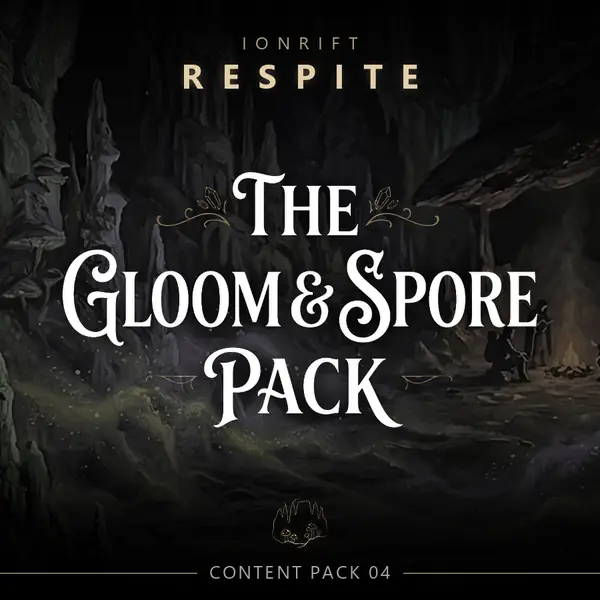
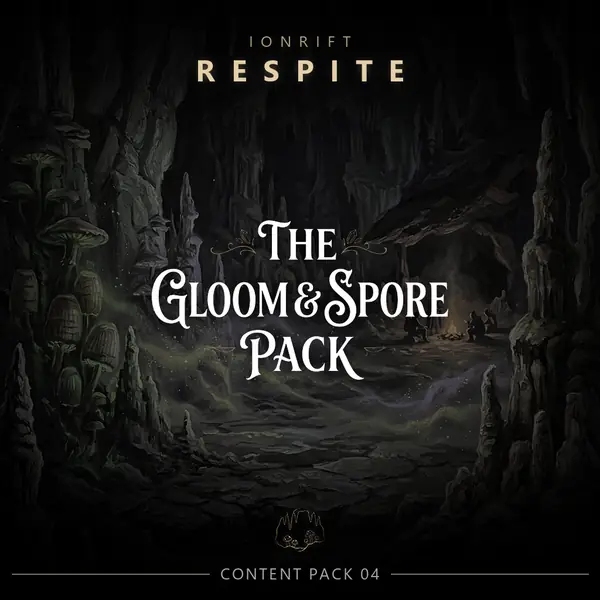
Use the real Gloom & Spore covers
Card and shelf thumb now come from the 1x1 cover. The page uses the
overlays hero pattern with a crop of the cover background, and the 16:9
cover as the social image. Still hidden in production.

diff --git a/src/css/landing.css b/src/css/landing.css
@@ -3478,11 +3478,9 @@
         }
 
         /* ═══ Pack detail page (draft, unused until a pack page is switched on) ═══ */
-        .pack-detail-header { margin: 24px 0 20px; }
-        .pack-detail-header .pack-modules { margin-top: 14px; }
-        .pack-detail-cover { margin: 0 0 32px; }
-        .pack-detail-cover img { display: block; width: 100%; height: auto; border-radius: 12px; }
-        .pack-detail-caption { margin-top: 8px; font-size: 12px; color: var(--text-muted); }
+        .pack-detail-hero { min-height: 340px; margin-bottom: 8px; }
+        .pack-detail-hero .pack-modules { margin-top: 14px; }
+        .pack-detail-caption { margin: 0 0 32px; font-size: 12px; color: var(--text-muted); }
         .pack-detail-section { margin: 0 0 32px; }
         .pack-detail-h2 { font-size: 21px; font-weight: 700; margin: 0 0 12px; }
         .pack-detail-facts { margin: 0; padding-left: 22px; color: var(--text-muted); line-height: 1.75; }

diff --git a/src/_data/gloomSpore.js b/src/_data/gloomSpore.js
@@ -62,8 +62,10 @@ export default {
     eventCount: 8,
     disaster: "The Spore Tide",
     terrain: "The Deep",
-    hero: "/img/packs/gloom-spore-hero.webp",
-    ogImage: "/img/packs/gloom-spore-hero.jpg",
+    /** Hero background: crop of cover/background (AI-generated). */
+    hero: "/img/packs/gloom-spore-bg.webp",
+    /** Social preview: the 16:9 cover (AI-generated). */
+    ogImage: "/img/packs/gloom-spore-og.jpg",
   },
   /** Overlay Shelf entries, merged into overlayShelfArt only when SHELF_LIVE (or preview). */
   shelf: shelfOn
@@ -79,8 +81,8 @@ export default {
   /** Cover image files in src/img that stay out of the build until assetsOn. */
   assetFiles: [
     "packs/gloom-spore.webp",
-    "packs/gloom-spore-hero.webp",
-    "packs/gloom-spore-hero.jpg",
+    "packs/gloom-spore-bg.webp",
+    "packs/gloom-spore-og.jpg",
     "packs/thumbs/gloom-spore.jpg",
   ],
 };
